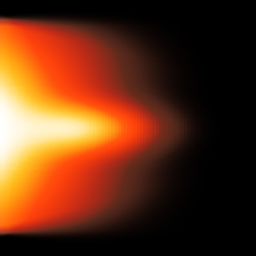
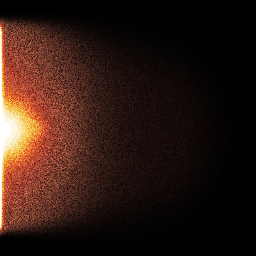
Improved trails and generation of reentry

diff --git a/main.js b/main.js
@@ -96,13 +96,13 @@ gradient[5].multiplyScalar(0.03);
 gradient[6].multiplyScalar(0.01);
 gradient[7].multiplyScalar(0.01);
 
-var STRIP_LENGTH = 0.05;
+var STRIP_LENGTH = 0.3;
 var STRIP_WIDTH = 0.1;
 
 function CreateStrip() {
     var strip = new THREE.Geometry();
     for (i = 0; i < 10; i++) {
-        var h = Math.pow(i, 2) * STRIP_LENGTH;
+        var h = Math.pow(i, 1) * STRIP_LENGTH;
         var w = 1 + i * 0.5;
         strip.vertices.push(new THREE.Vector3(-1.0 * STRIP_WIDTH * w, i * 2 * h, 0.0));
         strip.vertices.push(new THREE.Vector3(1.0 * STRIP_WIDTH * w, i * 2 * h, 0.0));
@@ -161,12 +161,12 @@ var flare = CreateQuad();
 var strip = CreateStrip();
 
 // Ticks it takes to split
-var MIN_TENSION = 50;
-var MAX_TENSION = 100;
+var MIN_TENSION = 10;
+var MAX_TENSION = 200;
 
 // Ticks till debris starts dying
-var MIN_LIFETIME = 300;
-var MAX_LIFETIME = 1000;
+var MIN_LIFETIME = 100;
+var MAX_LIFETIME = 600;
 
 var MAX_VELOCITY = 0.01;
 
@@ -178,7 +178,7 @@ function CreateDebrisPiece(position, velocity, generation) {
     flareMesh.position.set(position.x, position.y, position.z);
     stripMesh.position.set(position.x, position.y, position.z);
 
-    flareMesh.scale.set(1, 1, 1);
+    //flareMesh.scale.set(1, 1, 1);
 
     scene.add(flareMesh);
     scene.add(stripMesh);
@@ -201,7 +201,7 @@ function CreateDebrisPiece(position, velocity, generation) {
 
 function randomVelocity() {
     return new THREE.Vector3(
-        (-0.5 + Math.random()) * MAX_VELOCITY,
+        (-0.5 + Math.random()) * MAX_VELOCITY * 1.5,
         (Math.random()) * MAX_VELOCITY / 2,
         (-0.5 + Math.random()) * MAX_VELOCITY,
     );
@@ -226,7 +226,7 @@ function smoothstep(min, max, value) {
 
 var INFLATION_SPEED = 0.005;
 
-var MAX_GENERATIONS = 3;
+var MAX_GENERATIONS = 5;
 
 function UpdateDebris() {
     for (var i = 0; i < debris.length; i++) {
@@ -256,8 +256,10 @@ function UpdateDebris() {
 
         brightness *= 0.5;
 
-        d.strip.scale.x = brightness;
-        d.flare.scale.set(brightness, brightness, brightness);
+        var scale = Clamp(brightness, 0.0001, 1);
+
+        d.strip.scale.x = scale * 1.25;
+        d.flare.scale.set(scale, scale, scale);
 
 
         if (d.generation != 0 && d.lifetime == 200)
@@ -308,7 +310,7 @@ var animate = function () {
 
     ticks++;
 
-    if (ticks > 1000 && debris.length == 1) {
+    if (ticks > 1000 && debris.length == 10) {
         CreateDebrisPiece(new THREE.Vector3(0, 0, 0), new THREE.Vector3(0, 0, 0), 0);
     }
 
